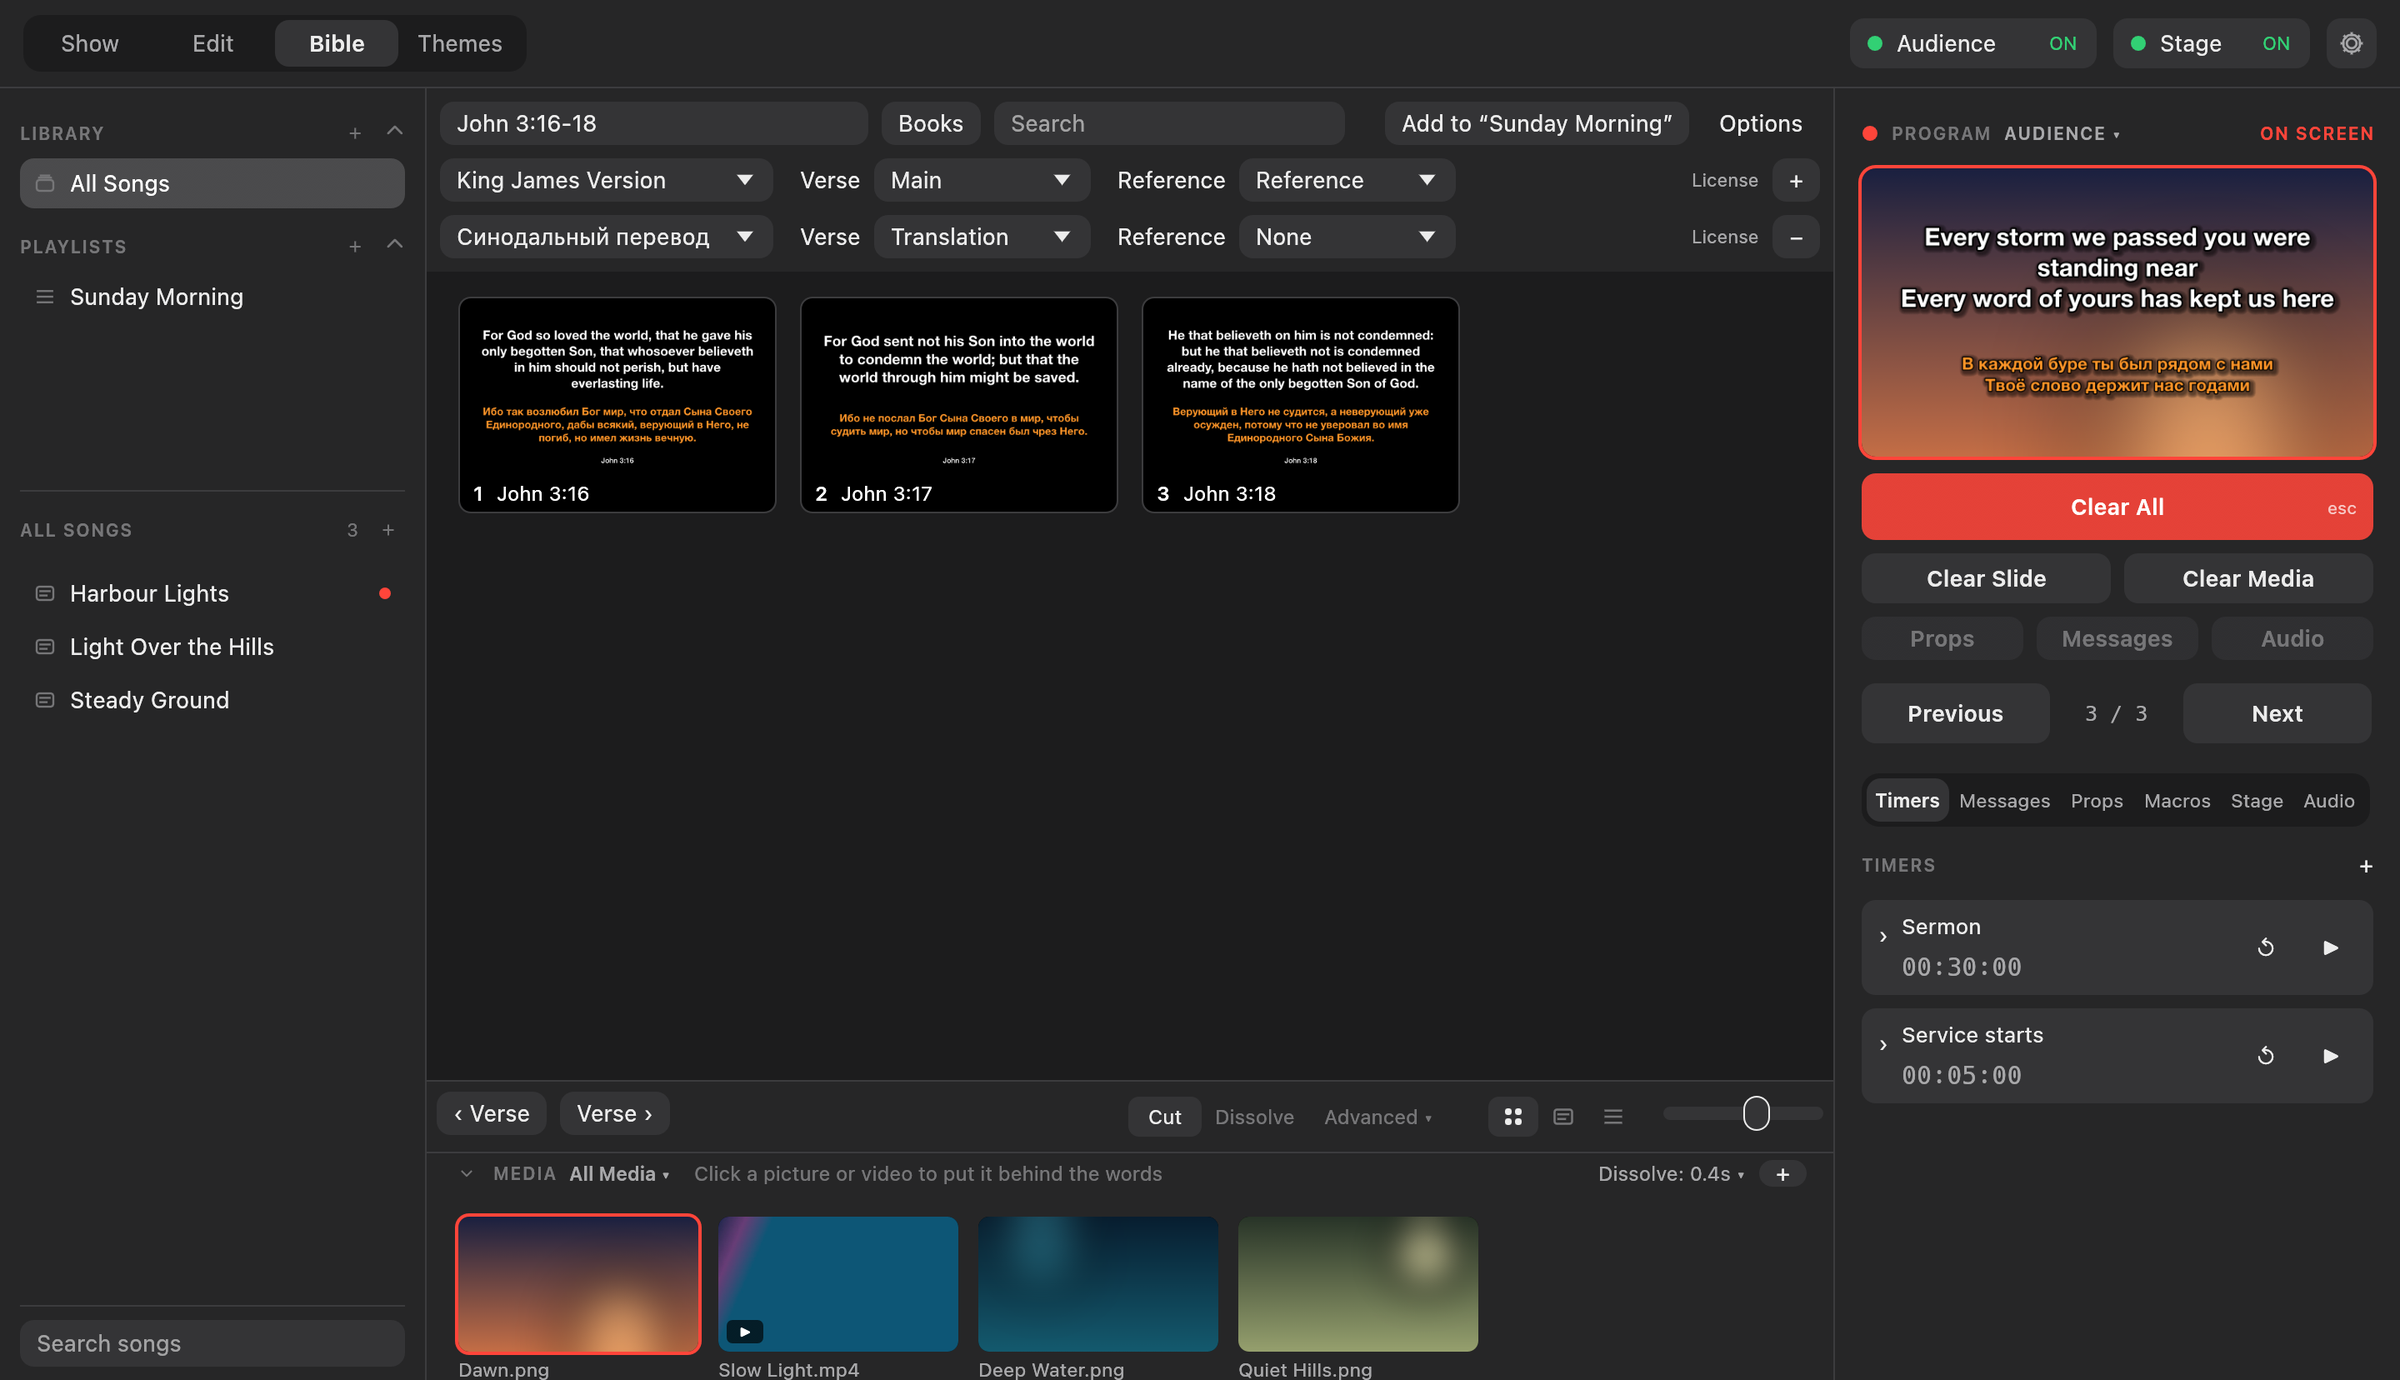
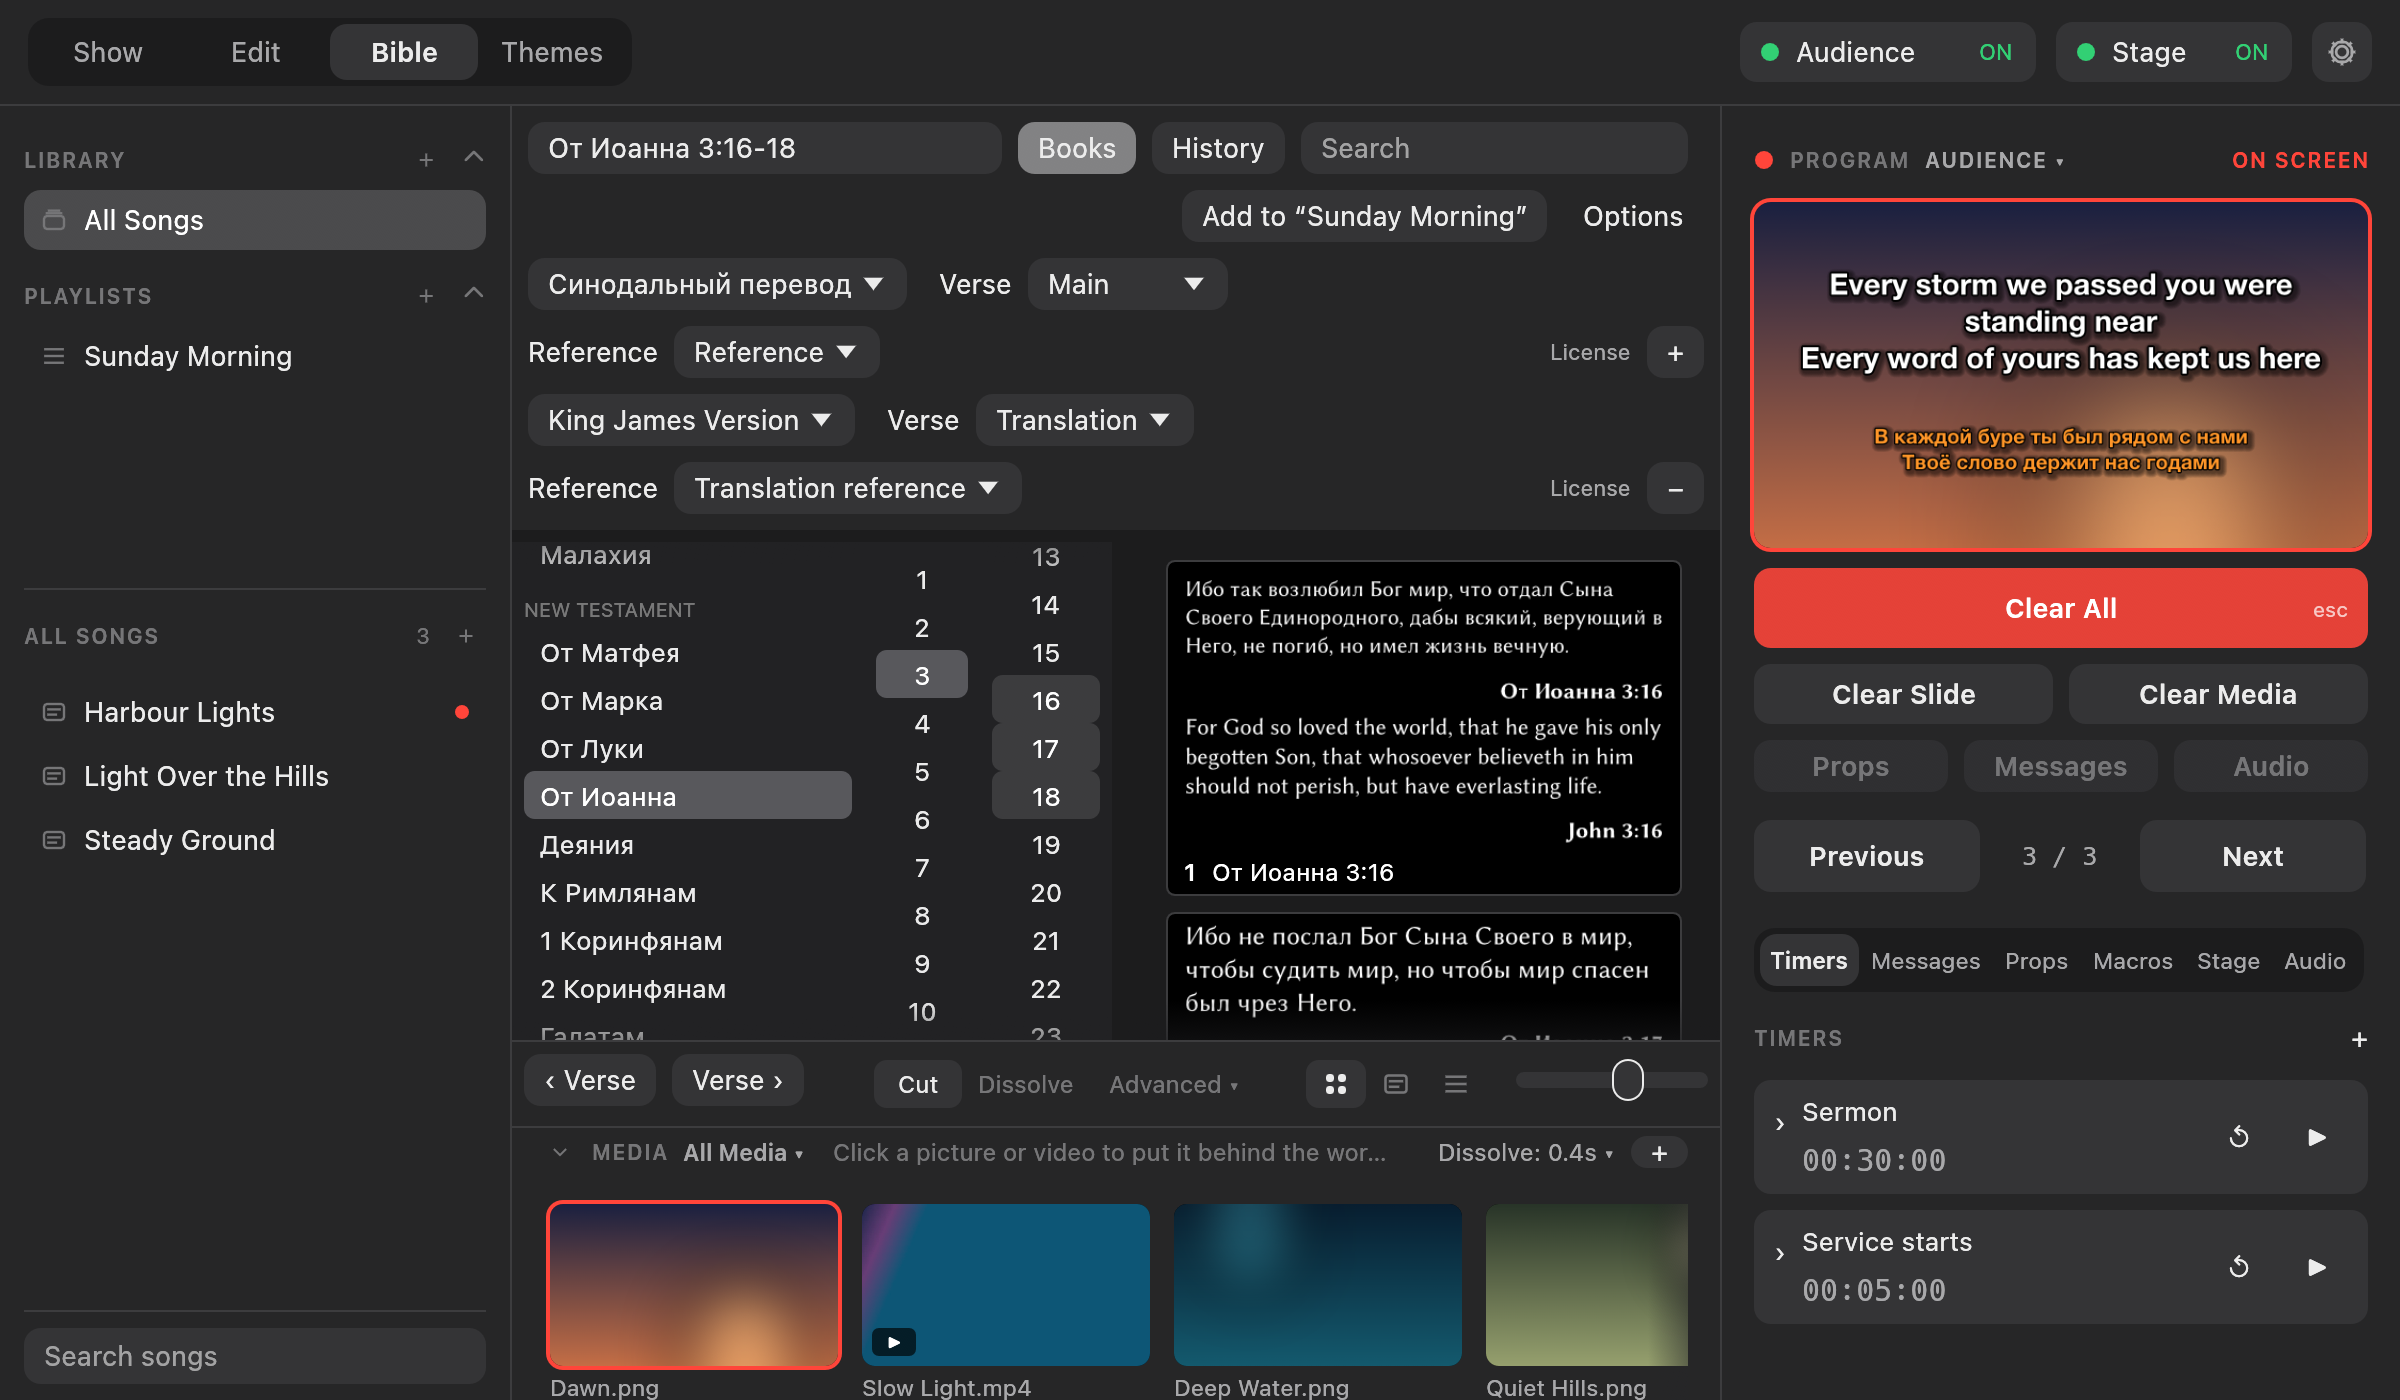
Escape closes the Bibles window instead of clearing the screens; honest passage option
- With the Bibles window (or the setup) open and nothing being typed, Escape cleared the
  audience screens and left the window open: show keys are read before the window gets them,
  and only pop-ups, Settings and Options counted as something for Escape to close. The
  check is now one function (escape_closes_something) that counts the Bibles window and the
  setup too, with a test.
- "As many verses as fit" was not what it did: without one verse a slide, the whole passage
  goes on one slide, however long. It now says "The whole passage". Splitting a long passage
  by what fits is on the roadmap.
- The Bible page's picture in docs/features.md shows the page as it is now.

Checked: cargo test --workspace. Also measured: 200 lookups in a quiet run on the Bible page
fill memory to about 239 MB within the first 40 (the thumbnail cache, which keeps at most 160)
and it stays there.

diff --git a/crates/sp-app/src/main.rs b/crates/sp-app/src/main.rs
@@ -350,6 +350,18 @@ fn template_names(theme: &Theme) -> Vec<String> {
     theme.templates.iter().map(|template| template.name.clone()).collect()
 }
 
+/// Whether Escape has something in the window to close (a pop-up, the Settings window, the
+/// Bible page's Options or Bibles window, the setup), which it closes instead of clearing the
+/// screens.
+fn escape_closes_something(state: &home::HomeState, ctx: &egui::Context) -> bool {
+    state.settings_open
+        || state.bible.options.open
+        || state.bible.options.manage_open
+        || state.setup.is_some()
+        || state.library_search.is_some()
+        || egui::Popup::is_any_open(ctx)
+}
+
 /// The keys that run the show. They are read straight from the window, before the interface
 /// draws, so a key press reaches the output without waiting for the home window. A slide's own
 /// hot key puts it on screen; otherwise a letter jumps to the group it stands for (A for the
@@ -4690,13 +4702,8 @@ impl ApplicationHandler<AppEvent> for App {
             && !self.held.control_key()
             && let Some(command) = show_key_command(&key.logical_key, &self.show)
         {
-            // Escape clears the screen only when there is nothing else for it to close: a
-            // pop-up or the Settings window takes it first.
-            let state = &running.home_state;
-            let something_open = state.settings_open
-                || state.bible.options.open
-                || state.library_search.is_some()
-                || egui::Popup::is_any_open(&running.egui_ctx);
+            // Escape clears the screen only when there is nothing else for it to close.
+            let something_open = escape_closes_something(&running.home_state, &running.egui_ctx);
             let escape = matches!(key.logical_key, Key::Named(NamedKey::Escape));
             if !(escape && something_open) {
                 self.apply(vec![command]);
@@ -5322,6 +5329,15 @@ mod tests {
         assert_eq!(key(Key::Named(NamedKey::End)), Some(Command::Last));
         assert_eq!(key(Key::Named(NamedKey::F1)), Some(Command::ClearAll));
         assert_eq!(key(Key::Named(NamedKey::Escape)), Some(Command::ClearAll));
+        // Unless the Bibles window or the setup is open: then Escape closes it.
+        let ctx = egui::Context::default();
+        let mut state = home::HomeState::default();
+        assert!(!escape_closes_something(&state, &ctx));
+        state.bible.options.manage_open = true;
+        assert!(escape_closes_something(&state, &ctx));
+        state.bible.options.manage_open = false;
+        state.setup = Some(setup::Setup::new());
+        assert!(escape_closes_something(&state, &ctx));
         assert_eq!(key(Key::Named(NamedKey::Tab)), None);
         // Letters jump to the group they stand for, in either case.
         assert_eq!(key(Key::Character("a".into())), jump(0));

diff --git a/crates/sp-app/src/bible.rs b/crates/sp-app/src/bible.rs
@@ -608,7 +608,8 @@ fn choices(
     widgets.hovered.bg_fill = Color32::from_gray(84);
     heading(ui, "EACH SLIDE SHOWS");
     ui.radio_value(&mut options.break_on_new_verse, true, "One verse");
-    ui.radio_value(&mut options.break_on_new_verse, false, "As many verses as fit");
+    ui.radio_value(&mut options.break_on_new_verse, false, "The whole passage")
+        .on_hover_text("All its verses on one slide");
     ui.add_space(6.0);
     ui.checkbox(&mut options.show_verse_numbers, "Verse numbers")
         .on_hover_text("Put each verse's number before its words");

diff --git a/docs/features.md b/docs/features.md
@@ -158,7 +158,7 @@ feature changes, this page changes in the same commit.
   hundred, and Clear History empties it.
 - Up to four translations on one slide, lined up by verse using the standard versification
   tables; each row picks its Bible (or None) and the boxes its verse and reference go in.
-- Options opens a panel: what each slide shows (one verse, or as many as fit), verse numbers,
+- Options opens a panel: what each slide shows (one verse, or the whole passage), verse numbers,
   the translation's name, where the reference goes (on every slide, the whole passage on every
   slide or the last, or none) and the theme, beside a preview of the first and last slides that
   changes as they are clicked (the passage showing, or two sample verses). Manage Bibles… opens
@@ -175,7 +175,7 @@ feature changes, this page changes in the same commit.
 - One click keeps a passage: Add to "Sunday Morning" puts it in the playlist in front (the ▾
   beside it picks another), to be brought back with the same settings.
 
-![The Bible view: John 3:16-18 in the King James Version beside the Russian Synodal](images/bible.png)
+![The Bible page: John 3:16-18 in the Russian Synodal and the King James Version, beside the book, chapter and verse lists](images/bible.png)
 
 ## Editing
 - An editor for a song's slides: move, resize and restyle text boxes, with alignment guides

diff --git a/docs/roadmap.md b/docs/roadmap.md
@@ -125,6 +125,8 @@ rather than a feature, but no church on Windows can use the app without them.
 - **The reference straight after the verse.** The reference follows the last word, on the same line. (started: the reference can go on a line of its own in the same box) · S · Low
 - **Red-letter text.** Needs the data for each Bible. · M · Low
 - **More than four translations at once.** (started: four rows) · S · Low
+- **A long passage split by what fits.** As many verses on each slide as its box holds, then
+  the next slide. (started: one verse a slide, or the whole passage on one) · M · Medium
 
 ## Themes and screen setups
 
